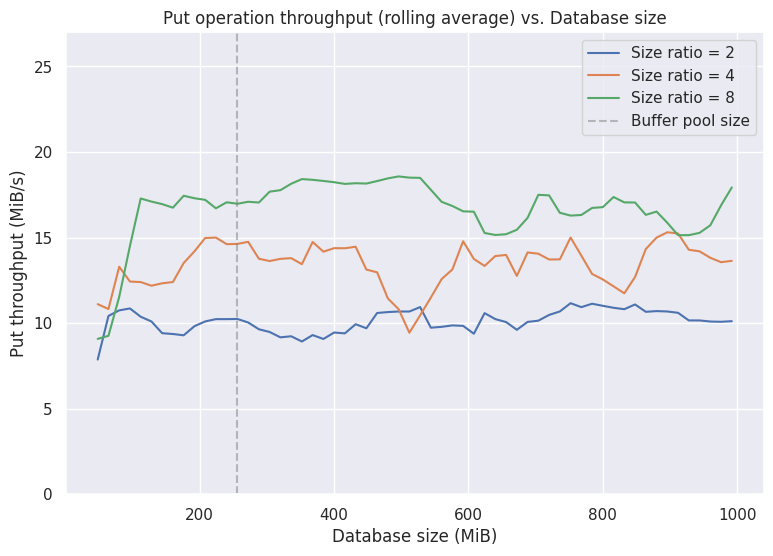
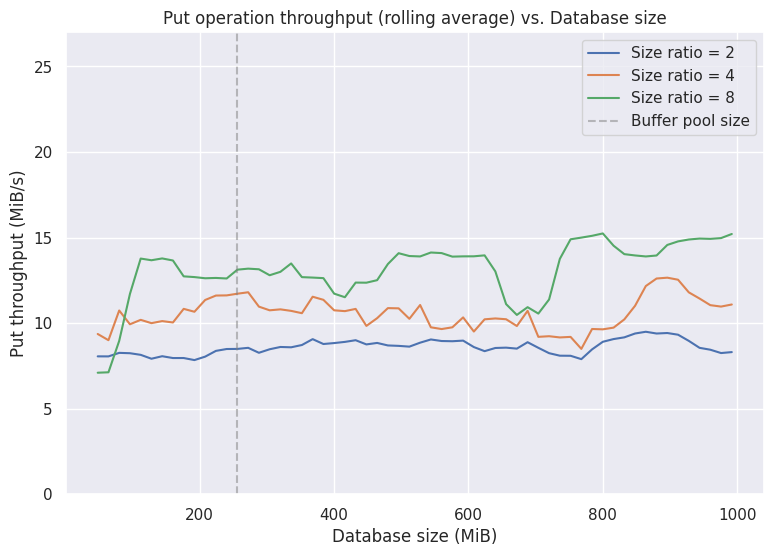
Add description to eviction and update sme images

diff --git a/README.md b/README.md
@@ -223,6 +223,11 @@ For hash functions, we have a common `HashFunction` struct in `hash.rs` that is 
 
 #### Eviction policy
 
+We implemented the 2Q algorithm as our buffer pool eviciton policy. This algorithm is good for our use case since it can handle large sequential reads without losing track of all the hot pages. It works by having two queues, one FIFO queue for new pages, and one LRU queue for hot pages. Thus, a large sequential scan could flush all the pages in the FIFO queue, but the hot pages will remain untouched in the LRU queue. For more details on the 2Q algorithm, [here](https://www.vldb.org/conf/1994/P439.PDF) is the paper that introduced the algorithm.
+
+In particular, we implement the full 2Q algorithm with parameters `Kin = 25%` and `Kout = 50%` as these were picked as good middle ground values in the paper.
+
+
 ### Write-Ahead Logging (WAL)
 
 The database implements a configurable write-ahead logging system to ensure durability and crash recovery. 
@@ -291,11 +296,12 @@ All the experiments insert unique uniformly random keys and values, and queries 
 ### LSM tree size ratio
 
 ![](img/put_rolling_avg_throughput.png)
-[TODO] other image of get throughput
+
+![](img/get_rolling_avg_throughput.png)
 
 In this experiment, we compare the put and get operations throughput as we vary the size ratio of the LSM tree. The data we get from the put operation throughput is really chaotic because compactions happen in some samples but not in others. To make the data easier to interpret and contrast, we calculated a running average of 5 samples, and this is what is displayed on the graph. The data from the get operations was left as is.
 
-As we increase the size ratio of the LSM tree, we expect the put throughput to increase and the get throughput to decrease, which indeed happens. This shows that our database can be tuned to prioritize put operation throughput if the workload is write-heavy or get operation throughput if the workload is read-heavy.
+As we increase the size ratio of the LSM tree, we expect the put throughput to increase and the get throughput to decrease. We see that the put throughput increases. This shows that our database can be tuned to prioritize put operation throughput if the workload is write-heavy. But the get throughput seems to be pretty similar for all three size ratios. This indicates that we could increase the put throughput at a low cost to the get throughput (at least for these low size ratio values). This was not what we initially expected and we plan to perform more experiments measuring this in the future.
 
 ### Binary search vs. B-tree search
 
@@ -324,7 +330,7 @@ In this experiment, we measure the throughput of concurrent reads from multiple 
 
 ![](img/full_scan_throughput.png)
 
-In this experiment, we measure the throughput of doing a full database scan as the database grows. Before the database grows to 256 MiB, the whole database can fit in the buffer pool, so the throughput has really high peaks when it has cached the SSTs and reads from memory. After 256 MiB, the throughput settles at ~140 MiB/sec. [TODO] change this number if new run changes
+In this experiment, we measure the throughput of doing a full database scan as the database grows. Before the database grows to 256 MiB, the whole database can fit in the buffer pool, so the throughput has really high peaks when it has cached the SSTs and reads from memory. After 256 MiB, the throughput settles at ~100 MiB/sec.
 
 ## Working process
 
